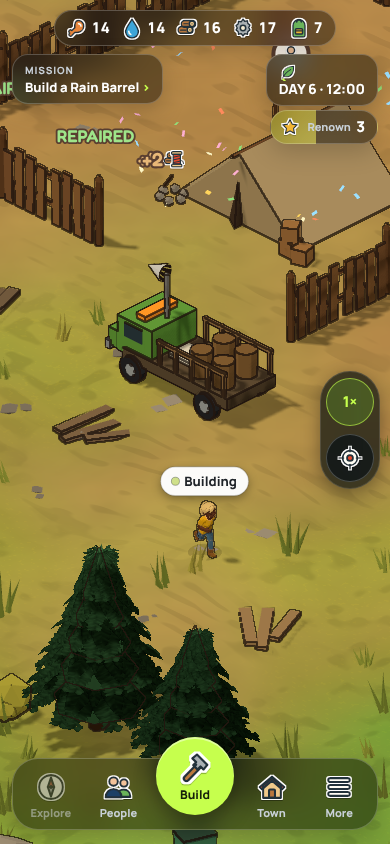
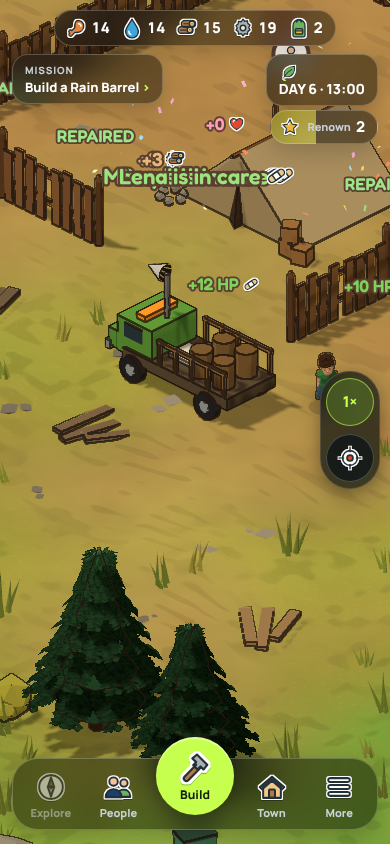
3D.303: the rescue truck, part 2: two Greenwater medics get out and wheel the fallen into care on stretcher carts; the truck waits for them, its horn holding the zombies, then leads them out. Also: a save made mid-carry no longer fails (owner, 19 Nov, W129; Features chat)
Claude-Session: https://claude.ai/code/session_017WFo2e1A76LqtvnWUw2GGA

diff --git a/js/game.js b/js/game.js
@@ -1045,7 +1045,7 @@ const AUTO_HELP_DAYS = 3;
 /* 3D.288 (owner, 19 Nov, W129 B; look C, W228): the rescue no longer kills zombies out of sight. Greenwater's farm truck drives in off the
    highway with its horn and alarm going; the zombies in town turn toward it; when it drives back out it crawls down the highway at a
    zombie's pace and the zombies follow it off the map (the car-alarm lure, on wheels). S.truck = { path, i, leg: 'in' | 'stop' | 'out', t }. */
-const TRUCK = { inSpd: .05, outSpd: .022, stop: 240, honk: 150, lead: 3.5, wait: 9000 };
+const TRUCK = { inSpd: .05, outSpd: .022, stop: 240, stopMax: 6000, honk: 150, lead: 3.5, wait: 9000 };
 function truckRoute() {   /* from the highway's east end to the Camp (or the middle of town), on the road where it can */
   const end = { x: COLS - 1, y: Wd.HWY_Y }, c = campB(), to = c ? Wd.approachTile(c) : tileOf(townCentre()), p = Wd.findPath(world, end, to);
   if (!p || !p.length) return null; const all = [end, ...p]; return all.slice(0, Math.max(2, all.length - 2)).map((q) => ({ x: q.x + .5, y: q.y + .5 })); }   /* it parks two tiles short of the Camp's door, not on top of it */
@@ -1053,6 +1053,30 @@ function truckStart() {
   for (const q of S.sv) if (q.mode === 'down') { q.stable = true; q.why = 'Help is coming: Greenwater is nearly here'; }   /* the bleed stops: their medic talks the town through it on the radio */
   const path = truckRoute(); if (!path) { (S.help ||= {}).arrived = true; return; }   /* no way in for a truck: the team comes on foot as before */
   S.truck = { path, i: 0, leg: 'in', t: 0 }; SFX('caralarm'); banner('🚚 GREENWATER IS HERE'); }
+function admitRescued(q) { const b = careDest(); q.careAt = b; q.w = { ...sitePoint(b) }; q.mode = 'hospital'; q.hp = Math.max(1, q.hp); q.bleed = null; q.rescuer = null; q.stateTicks = careTicks(b); q.careTotal = q.stateTicks; q.why = 'Brought in by the Greenwater medics'; }
+/* 3D.303 (W129): "their medics carry the fallen into care". Two Greenwater medics get out of the parked truck, each walks to someone who is
+   down, loads them on a stretcher cart and wheels them to the medical building (or the Camp), then fetches the next; when nobody is left
+   down they walk back and the truck leaves. A medic remembers who they carry by id (the save file keeps no links between people).
+   If it takes longer than TRUCK.stopMax, whoever is still down is taken in at once and the medics climb back in. */
+const MEDIC = { n: 2, spd: .045, load: 50 };
+function truckMedics() { const T = S.truck; if (!T || T.medics) return; const at = truckAt();
+  T.medics = Array.from({ length: MEDIC.n }, (_, i) => ({ id: 90001 + i, medic: true, human: true, name: ['Rosa', 'Abe'][i] || 'Medic', w: { x: at.x + (i ? .6 : -.6), y: at.y + .7 }, mode: 'go', carryId: null, carrying: null, t: 0 })); }
+const downFree = (me) => S.sv.filter((q) => q.mode === 'down' && !(q.rescuer && q.rescuer !== me && (q.rescuer.medic || q.rescuer.mode === 'rescueTo' || q.rescuer.mode === 'rescueCarry')));   /* not one someone else is already fetching */
+function medicsTick(T) {
+  const home = truckAt(); let busy = 0;
+  for (const m of T.medics) {
+    if (m.carryId != null && !m.carrying) { m.carrying = S.sv.find((q) => q.id === m.carryId) || null; if (m.carrying) m.carrying.rescuer = m; else { m.carryId = null; m.mode = 'go'; } }   /* after a load */
+    if (m.mode === 'in') continue;
+    if (m.mode === 'go') { const q = m.target && m.target.mode === 'down' && m.target.rescuer === m ? m.target : downFree(m).sort((a, b) => dist(a.w, m.w) - dist(b.w, m.w))[0];
+      if (!q) { m.target = null; m.mode = 'back'; } else { m.target = q; q.rescuer = m; busy++; m.why = `Fetching ${q.name}`;
+        if (followPath(m, q.w, MEDIC.spd) !== 'moving' || dist(m.w, q.w) < .7) { if ((m.t += 1) >= MEDIC.load) { m.t = 0; m.mode = 'rescueCarry'; m.carrying = q; m.carryId = q.id; m.target = null; q.why = 'On a Greenwater stretcher'; } } } }
+    if (m.mode === 'rescueCarry') { busy++; const q = m.carrying; if (!q || q.mode !== 'down') { m.carrying = null; m.carryId = null; m.mode = 'go'; continue; }
+      q.rescuer = m;   /* the downed person's own tick lets go of a rescuer it does not know; the medic keeps hold */
+      const dest = sitePoint(careDest()), r = followPath(m, dest, MEDIC.spd * .85); q.w = { ...m.w };
+      if (r !== 'moving' || dist(m.w, dest) < .8) { admitRescued(q); m.carrying = null; m.carryId = null; m.mode = 'go'; floats.push({ w: { ...m.w }, t: `🩹 ${q.name} is in care`, col: '#9be37b', a: 90 }); } }
+    if (m.mode === 'back') { if (downFree(m).length) { m.mode = 'go'; continue; } if (followPath(m, home, MEDIC.spd) !== 'moving' || dist(m.w, home) < .9) m.mode = 'in'; else busy++; }
+  }
+  return busy; }
 const truckAt = () => { const T = S.truck; if (!T) return null; const P = T.path, i = Math.min(P.length - 2, Math.floor(T.i)), f = Math.min(1, T.i - i), a = P[i], b = P[i + 1] || a; return { x: a.x + (b.x - a.x) * f, y: a.y + (b.y - a.y) * f, yaw: Math.atan2(b.y - a.y, b.x - a.x) }; };
 function truckFollowers() { return S.z.filter((z) => z.hp > 0 && !z.zoo && !z.human && (Wd.inTown(Math.floor(z.w.x), Math.floor(z.w.y)) || nearTown(z.w))); }
 function truckLead() {   /* every zombie in town turns to follow the truck out (they walk down the highway and off the map) */
@@ -1062,9 +1086,12 @@ function truckLead() {   /* every zombie in town turns to follow the truck out (
 function truckTick() {
   const T = S.truck; if (!T) return; const P = T.path, at = truckAt(); T.t++;
   if (T.t % TRUCK.honk === 0) { SFX('caralarm'); if (!floats.some((f) => f.honk)) floats.push({ w: { ...at }, t: '📯 HONK HONK', col: '#ffd84a', a: 90, honk: true }); }   /* one at a time */
-  if (T.leg === 'in') { if (tick % 30 === 0) for (const z of truckFollowers()) if (!z.lure && z.mode !== 'zleave') { z.lure = { x: at.x, y: at.y }; z.lureUntil = tick + 120; }   /* the noise turns heads as it comes */
-    T.i += TRUCK.inSpd; if (T.i >= P.length - 1) { T.i = P.length - 1; T.leg = 'stop'; T.t = 0; (S.help ||= {}).arrived = true; } return; }
-  if (T.leg === 'stop') { if (T.t >= TRUCK.stop) { T.leg = 'out'; T.path = P.slice().reverse(); T.i = 0; truckLead(); } return; }
+  if (T.leg === 'in' || T.leg === 'stop') { if (tick % 30 === 0) for (const z of truckFollowers()) if (!z.lure && z.mode !== 'zleave') { z.lure = { x: at.x, y: at.y }; z.lureUntil = tick + 120; }   /* the noise turns heads as it comes */
+    if (T.leg === 'in') { T.i += TRUCK.inSpd; if (T.i >= P.length - 1) { T.i = P.length - 1; T.leg = 'stop'; T.t = 0; truckMedics(); (S.help ||= {}).arrived = true; } return; } }
+  if (T.leg === 'stop') { const busy = T.medics ? medicsTick(T) : 0;
+    if (T.t >= TRUCK.stopMax) { for (const q of S.sv) if (q.mode === 'down') admitRescued(q); for (const m of T.medics || []) { if (m.carrying) m.carrying.rescuer = null; m.mode = 'in'; } }   /* taking too long: the rest are taken in at once */
+    else if (T.t < TRUCK.stop || busy || (T.medics && T.medics.some((m) => m.mode !== 'in'))) return;
+    T.medics = null; T.leg = 'out'; T.path = P.slice().reverse(); T.i = 0; T.t = 0; truckLead(); return; }
   { const fs = S.z.filter((z) => z.truck && z.hp > 0), near = fs.length ? Math.min(...fs.map((z) => dist(z.w, at))) : 0; if (near > TRUCK.lead && T.t < TRUCK.wait) return; }   /* it leads: it waits for the nearest follower to catch up (at most TRUCK.wait ticks in all) */
   T.i += TRUCK.outSpd; if (T.i >= P.length - 1) { S.truck = null; const left = S.z.filter((z) => z.truck && z.hp > 0).length; note('important', `🚚 The truck is gone down the highway${left ? `; ${left} zombie${left === 1 ? ' is' : 's are'} still shuffling after it` : ' and the town is quiet'}.`); }
 }
@@ -1075,11 +1102,12 @@ function helpTick() {
       note('critical', '📻 Nobody is left standing: help is on the way', { key: 'helpcoming', live: () => !!(S.help && S.help.coming), log: 'The Haven went quiet on the radio. The neighbours are coming without being asked.' }); banner('📻 HELP IS COMING'); } }
   const h = S.help; if (!h) return;
   if (h.coming && tick >= h.coming && !S.truck) { h.coming = 0; truckStart(); }
-  if (h.arrived) { h.arrived = false; const led = truckLead();
-    let saved = 0; for (const q of S.sv) if (q.mode === 'down') { const b = careDest(); q.careAt = b; q.w = { ...sitePoint(b) }; q.mode = 'hospital'; q.hp = 1; q.bleed = null; q.rescuer = null; q.stateTicks = careTicks(b); q.careTotal = q.stateTicks; q.why = 'Brought in by the rescue team'; saved++; }
+  if (h.arrived) { h.arrived = false; const led = S.truck ? truckFollowers().length : truckLead();   /* 3D.303: they follow when it drives off; until then the horn holds them round the truck */
+    let saved = 0; if (S.truck) { saved = S.sv.filter((q) => q.mode === 'down').length; truckMedics(); }   /* 3D.303: their medics get out and carry the fallen in */
+    else for (const q of S.sv) if (q.mode === 'down') { admitRescued(q); saved++; }   /* no truck (no road in): as before */
     h.owe = { day: S.day + 2, ...HELP_COST }; SFX('rescued');
     const self = h.self; h.self = false;
-    showEventPopup({ title: '🚚 GREENWATER\'S TRUCK ARRIVED', text: `${self ? 'Nobody answered the radio, so they came anyway. ' : ''}${led ? `Horn blaring, they are leading ${led} zombie${led === 1 ? '' : 's'} out of town down the highway` : 'The streets were clear'}, and they carried ${saved} of your people into care. "Two days from now, we'll come by for that favour."` });
+    showEventPopup({ title: '🚚 GREENWATER\'S TRUCK ARRIVED', text: `${self ? 'Nobody answered the radio, so they came anyway. ' : ''}${led ? `Horn blaring, they are leading ${led} zombie${led === 1 ? '' : 's'} out of town down the highway` : 'The streets were clear'}, and their medics ${S.truck ? 'are carrying' : 'carried'} ${saved} of your people into care. "Two days from now, we'll come by for that favour."` });
   }
   if (h.owe && S.day >= h.owe.day && !modalOpen) { const o = h.owe; h.owe = null;
     showEventPopup({ title: '📻 THEY CAME FOR THE FAVOUR', text: `The group that saved your people asks for ${o.food} food and ${o.water} water.`, buttons: [
@@ -4618,7 +4646,7 @@ function serialize() {
   S.mapOff = OFF;   /* 3D.101: this save uses the 40x42 map */
   const sv = S.sv.map((s) => { const o = {}; for (const k in s) if (!SKIP.has(k)) o[k] = s[k]; return o; });
   if (S.sh) shMemSave(S.sh);   /* 3D.302 a game saved with a squad inside keeps what they have done there */
-  const { requests, sv: _sv, z: _z, sh: _sh, ...rest } = S; if (_sh && !_sh.practice) { rest.shHome = _sh.units.filter((s) => !s.ally).map((s) => { const o = {}; for (const k in s) if (!SKIP.has(k) && k !== 'target' && k !== 'shHome') o[k] = s[k]; return o; }); rest.shLeft = { dest: _sh.dest, raid: _sh.raid || null }; }   /* 3D.125: a practice squad is never saved into the town */   /* 3D.108 a squad inside a stronghold is saved as having fallen back */
+  const { requests, sv: _sv, z: _z, sh: _sh, ...rest } = S; if (rest.truck && rest.truck.medics) rest.truck = { ...rest.truck, medics: rest.truck.medics.map(({ carrying, target, path, pathGoal, pathVer, arrG, ...m }) => m) };   /* 3D.303: a medic is saved without its links to people (it finds its patient again by carryId) */ if (_sh && !_sh.practice) { rest.shHome = _sh.units.filter((s) => !s.ally).map((s) => { const o = {}; for (const k in s) if (!SKIP.has(k) && k !== 'target' && k !== 'shHome') o[k] = s[k]; return o; }); rest.shLeft = { dest: _sh.dest, raid: _sh.raid || null }; }   /* 3D.125: a practice squad is never saved into the town */   /* 3D.108 a squad inside a stronghold is saved as having fallen back */
   return JSON.stringify({ sid: SID, version: VERSION, S: rest, sv, roads: [...world.roads], walls: [...world.walls.values()].map((w) => [w.x, w.y, w.type, Math.round(w.hp), w.broken ? 1 : 0]), traps: [...trapMap().values()].map((t) => [t.x, t.y, t.type, t.ch]), buildings: world.buildings.map((b) => ({ type: b.type, x: b.x, y: b.y, rot: (b.rot | 0) & 3, w: b.w, h: b.h, q: b.q, a: b.a, unpaid: !!b.unpaid, fire: b.fire || 0, burnt: !!b.burnt, rushT: b.rushT || 0, rushes: b.rushes || 0, staffId: b.staff ? b.staff.id : null })), cam: { x: cam.x, y: cam.y, z: cam.z }, time: Date.now() });
 }
 function writeKey(key, data) { try { localStorage.setItem(key, data); return true; } catch (e) { return e || new Error('blocked'); } }

diff --git a/src/game/03-stats-gear.js b/src/game/03-stats-gear.js
@@ -378,7 +378,7 @@ const AUTO_HELP_DAYS = 3;
 /* 3D.288 (owner, 19 Nov, W129 B; look C, W228): the rescue no longer kills zombies out of sight. Greenwater's farm truck drives in off the
    highway with its horn and alarm going; the zombies in town turn toward it; when it drives back out it crawls down the highway at a
    zombie's pace and the zombies follow it off the map (the car-alarm lure, on wheels). S.truck = { path, i, leg: 'in' | 'stop' | 'out', t }. */
-const TRUCK = { inSpd: .05, outSpd: .022, stop: 240, honk: 150, lead: 3.5, wait: 9000 };
+const TRUCK = { inSpd: .05, outSpd: .022, stop: 240, stopMax: 6000, honk: 150, lead: 3.5, wait: 9000 };
 function truckRoute() {   /* from the highway's east end to the Camp (or the middle of town), on the road where it can */
   const end = { x: COLS - 1, y: Wd.HWY_Y }, c = campB(), to = c ? Wd.approachTile(c) : tileOf(townCentre()), p = Wd.findPath(world, end, to);
   if (!p || !p.length) return null; const all = [end, ...p]; return all.slice(0, Math.max(2, all.length - 2)).map((q) => ({ x: q.x + .5, y: q.y + .5 })); }   /* it parks two tiles short of the Camp's door, not on top of it */
@@ -386,6 +386,30 @@ function truckStart() {
   for (const q of S.sv) if (q.mode === 'down') { q.stable = true; q.why = 'Help is coming: Greenwater is nearly here'; }   /* the bleed stops: their medic talks the town through it on the radio */
   const path = truckRoute(); if (!path) { (S.help ||= {}).arrived = true; return; }   /* no way in for a truck: the team comes on foot as before */
   S.truck = { path, i: 0, leg: 'in', t: 0 }; SFX('caralarm'); banner('🚚 GREENWATER IS HERE'); }
+function admitRescued(q) { const b = careDest(); q.careAt = b; q.w = { ...sitePoint(b) }; q.mode = 'hospital'; q.hp = Math.max(1, q.hp); q.bleed = null; q.rescuer = null; q.stateTicks = careTicks(b); q.careTotal = q.stateTicks; q.why = 'Brought in by the Greenwater medics'; }
+/* 3D.303 (W129): "their medics carry the fallen into care". Two Greenwater medics get out of the parked truck, each walks to someone who is
+   down, loads them on a stretcher cart and wheels them to the medical building (or the Camp), then fetches the next; when nobody is left
+   down they walk back and the truck leaves. A medic remembers who they carry by id (the save file keeps no links between people).
+   If it takes longer than TRUCK.stopMax, whoever is still down is taken in at once and the medics climb back in. */
+const MEDIC = { n: 2, spd: .045, load: 50 };
+function truckMedics() { const T = S.truck; if (!T || T.medics) return; const at = truckAt();
+  T.medics = Array.from({ length: MEDIC.n }, (_, i) => ({ id: 90001 + i, medic: true, human: true, name: ['Rosa', 'Abe'][i] || 'Medic', w: { x: at.x + (i ? .6 : -.6), y: at.y + .7 }, mode: 'go', carryId: null, carrying: null, t: 0 })); }
+const downFree = (me) => S.sv.filter((q) => q.mode === 'down' && !(q.rescuer && q.rescuer !== me && (q.rescuer.medic || q.rescuer.mode === 'rescueTo' || q.rescuer.mode === 'rescueCarry')));   /* not one someone else is already fetching */
+function medicsTick(T) {
+  const home = truckAt(); let busy = 0;
+  for (const m of T.medics) {
+    if (m.carryId != null && !m.carrying) { m.carrying = S.sv.find((q) => q.id === m.carryId) || null; if (m.carrying) m.carrying.rescuer = m; else { m.carryId = null; m.mode = 'go'; } }   /* after a load */
+    if (m.mode === 'in') continue;
+    if (m.mode === 'go') { const q = m.target && m.target.mode === 'down' && m.target.rescuer === m ? m.target : downFree(m).sort((a, b) => dist(a.w, m.w) - dist(b.w, m.w))[0];
+      if (!q) { m.target = null; m.mode = 'back'; } else { m.target = q; q.rescuer = m; busy++; m.why = `Fetching ${q.name}`;
+        if (followPath(m, q.w, MEDIC.spd) !== 'moving' || dist(m.w, q.w) < .7) { if ((m.t += 1) >= MEDIC.load) { m.t = 0; m.mode = 'rescueCarry'; m.carrying = q; m.carryId = q.id; m.target = null; q.why = 'On a Greenwater stretcher'; } } } }
+    if (m.mode === 'rescueCarry') { busy++; const q = m.carrying; if (!q || q.mode !== 'down') { m.carrying = null; m.carryId = null; m.mode = 'go'; continue; }
+      q.rescuer = m;   /* the downed person's own tick lets go of a rescuer it does not know; the medic keeps hold */
+      const dest = sitePoint(careDest()), r = followPath(m, dest, MEDIC.spd * .85); q.w = { ...m.w };
+      if (r !== 'moving' || dist(m.w, dest) < .8) { admitRescued(q); m.carrying = null; m.carryId = null; m.mode = 'go'; floats.push({ w: { ...m.w }, t: `🩹 ${q.name} is in care`, col: '#9be37b', a: 90 }); } }
+    if (m.mode === 'back') { if (downFree(m).length) { m.mode = 'go'; continue; } if (followPath(m, home, MEDIC.spd) !== 'moving' || dist(m.w, home) < .9) m.mode = 'in'; else busy++; }
+  }
+  return busy; }
 const truckAt = () => { const T = S.truck; if (!T) return null; const P = T.path, i = Math.min(P.length - 2, Math.floor(T.i)), f = Math.min(1, T.i - i), a = P[i], b = P[i + 1] || a; return { x: a.x + (b.x - a.x) * f, y: a.y + (b.y - a.y) * f, yaw: Math.atan2(b.y - a.y, b.x - a.x) }; };
 function truckFollowers() { return S.z.filter((z) => z.hp > 0 && !z.zoo && !z.human && (Wd.inTown(Math.floor(z.w.x), Math.floor(z.w.y)) || nearTown(z.w))); }
 function truckLead() {   /* every zombie in town turns to follow the truck out (they walk down the highway and off the map) */
@@ -395,9 +419,12 @@ function truckLead() {   /* every zombie in town turns to follow the truck out (
 function truckTick() {
   const T = S.truck; if (!T) return; const P = T.path, at = truckAt(); T.t++;
   if (T.t % TRUCK.honk === 0) { SFX('caralarm'); if (!floats.some((f) => f.honk)) floats.push({ w: { ...at }, t: '📯 HONK HONK', col: '#ffd84a', a: 90, honk: true }); }   /* one at a time */
-  if (T.leg === 'in') { if (tick % 30 === 0) for (const z of truckFollowers()) if (!z.lure && z.mode !== 'zleave') { z.lure = { x: at.x, y: at.y }; z.lureUntil = tick + 120; }   /* the noise turns heads as it comes */
-    T.i += TRUCK.inSpd; if (T.i >= P.length - 1) { T.i = P.length - 1; T.leg = 'stop'; T.t = 0; (S.help ||= {}).arrived = true; } return; }
-  if (T.leg === 'stop') { if (T.t >= TRUCK.stop) { T.leg = 'out'; T.path = P.slice().reverse(); T.i = 0; truckLead(); } return; }
+  if (T.leg === 'in' || T.leg === 'stop') { if (tick % 30 === 0) for (const z of truckFollowers()) if (!z.lure && z.mode !== 'zleave') { z.lure = { x: at.x, y: at.y }; z.lureUntil = tick + 120; }   /* the noise turns heads as it comes */
+    if (T.leg === 'in') { T.i += TRUCK.inSpd; if (T.i >= P.length - 1) { T.i = P.length - 1; T.leg = 'stop'; T.t = 0; truckMedics(); (S.help ||= {}).arrived = true; } return; } }
+  if (T.leg === 'stop') { const busy = T.medics ? medicsTick(T) : 0;
+    if (T.t >= TRUCK.stopMax) { for (const q of S.sv) if (q.mode === 'down') admitRescued(q); for (const m of T.medics || []) { if (m.carrying) m.carrying.rescuer = null; m.mode = 'in'; } }   /* taking too long: the rest are taken in at once */
+    else if (T.t < TRUCK.stop || busy || (T.medics && T.medics.some((m) => m.mode !== 'in'))) return;
+    T.medics = null; T.leg = 'out'; T.path = P.slice().reverse(); T.i = 0; T.t = 0; truckLead(); return; }
   { const fs = S.z.filter((z) => z.truck && z.hp > 0), near = fs.length ? Math.min(...fs.map((z) => dist(z.w, at))) : 0; if (near > TRUCK.lead && T.t < TRUCK.wait) return; }   /* it leads: it waits for the nearest follower to catch up (at most TRUCK.wait ticks in all) */
   T.i += TRUCK.outSpd; if (T.i >= P.length - 1) { S.truck = null; const left = S.z.filter((z) => z.truck && z.hp > 0).length; note('important', `🚚 The truck is gone down the highway${left ? `; ${left} zombie${left === 1 ? ' is' : 's are'} still shuffling after it` : ' and the town is quiet'}.`); }
 }
@@ -408,11 +435,12 @@ function helpTick() {
       note('critical', '📻 Nobody is left standing: help is on the way', { key: 'helpcoming', live: () => !!(S.help && S.help.coming), log: 'The Haven went quiet on the radio. The neighbours are coming without being asked.' }); banner('📻 HELP IS COMING'); } }
   const h = S.help; if (!h) return;
   if (h.coming && tick >= h.coming && !S.truck) { h.coming = 0; truckStart(); }
-  if (h.arrived) { h.arrived = false; const led = truckLead();
-    let saved = 0; for (const q of S.sv) if (q.mode === 'down') { const b = careDest(); q.careAt = b; q.w = { ...sitePoint(b) }; q.mode = 'hospital'; q.hp = 1; q.bleed = null; q.rescuer = null; q.stateTicks = careTicks(b); q.careTotal = q.stateTicks; q.why = 'Brought in by the rescue team'; saved++; }
+  if (h.arrived) { h.arrived = false; const led = S.truck ? truckFollowers().length : truckLead();   /* 3D.303: they follow when it drives off; until then the horn holds them round the truck */
+    let saved = 0; if (S.truck) { saved = S.sv.filter((q) => q.mode === 'down').length; truckMedics(); }   /* 3D.303: their medics get out and carry the fallen in */
+    else for (const q of S.sv) if (q.mode === 'down') { admitRescued(q); saved++; }   /* no truck (no road in): as before */
     h.owe = { day: S.day + 2, ...HELP_COST }; SFX('rescued');
     const self = h.self; h.self = false;
-    showEventPopup({ title: '🚚 GREENWATER\'S TRUCK ARRIVED', text: `${self ? 'Nobody answered the radio, so they came anyway. ' : ''}${led ? `Horn blaring, they are leading ${led} zombie${led === 1 ? '' : 's'} out of town down the highway` : 'The streets were clear'}, and they carried ${saved} of your people into care. "Two days from now, we'll come by for that favour."` });
+    showEventPopup({ title: '🚚 GREENWATER\'S TRUCK ARRIVED', text: `${self ? 'Nobody answered the radio, so they came anyway. ' : ''}${led ? `Horn blaring, they are leading ${led} zombie${led === 1 ? '' : 's'} out of town down the highway` : 'The streets were clear'}, and their medics ${S.truck ? 'are carrying' : 'carried'} ${saved} of your people into care. "Two days from now, we'll come by for that favour."` });
   }
   if (h.owe && S.day >= h.owe.day && !modalOpen) { const o = h.owe; h.owe = null;
     showEventPopup({ title: '📻 THEY CAME FOR THE FAVOUR', text: `The group that saved your people asks for ${o.food} food and ${o.water} water.`, buttons: [

diff --git a/tools/qa/truck_check.js b/tools/qa/truck_check.js
@@ -2,7 +2,8 @@
 // Greenwater's truck drives in off the highway with its horn going; the zombies in town turn toward it; it stops at the Camp
 // (the fallen go into care); then it drives back out down the highway and the zombies follow it off the map. Nobody kills them out of sight.
 // The check knocks the whole town down with zombies at the Camp, lets the neighbours come by themselves, and watches:
-//   1 the truck appears at the highway's east end and reaches the Camp; the fallen are stable while it drives in, in care when it stops;
+//   1 the truck appears at the highway's east end and reaches the Camp; the fallen are stable while it drives in;
+//   1b (3D.303) two medics get out and carry each of the fallen into care on a stretcher cart; the truck leaves only when they are all in and the medics are back;
 //   2 when it leaves, every zombie that was in town follows it east, the truck never more than a few tiles ahead of the nearest; none is killed (they walk off the map), none is left behind;
 //   3 a picture of the truck in town for the owner (runs/features/truck_in_game.png).
 // Serve the repo first (python3 -m http.server 8765) or set ZH_NOSERVER=1. Exit 0 ok, 1 a check failed.
@@ -16,8 +17,12 @@ const Q = require('./lib'), path = require('path'); let out2;
     step(400); out.coming = !!S.truck; out.stableWhileIn = S.sv.every((q) => q.mode !== 'down' || q.stable);
     for (let k = 0; k < 400 && S.truck && S.truck.leg === 'in'; k++) step(10);
     out.stopped = !!S.truck && S.truck.leg === 'stop'; const at = ZH.truckAt(); out.stopAt = at && { x: +at.x.toFixed(1), y: +at.y.toFixed(1) }; out.camp = { x: camp.x, y: camp.y };
-    step(60); out.care = S.sv.map((q) => q.mode); out.zAlive = zs.filter((z) => z.hp > 0).length; out.gone = zs.filter((z) => z.hp <= 0).map((z) => `${z.type} ${z.escaped ? 'escaped' : 'killed'} ${z.mode} ${z.w.x.toFixed(1)},${z.w.y.toFixed(1)}`); out.window = !!document.querySelector('#eventModal');
-    for (let k = 0; k < 100 && S.truck && S.truck.leg !== 'out'; k++) step(10);
+    const carried = new Set(), medicsSeen = new Set(); let stopT = 0, leftEarly = false;
+    for (let k = 0; k < 800 && S.truck && S.truck.leg === 'stop'; k++) { step(10); stopT += 10; const T = S.truck; if (!T) break;
+      for (const m of T.medics || []) { medicsSeen.add(m.id); if (m.mode === 'rescueCarry' && m.carrying) { carried.add(m.carrying.id); if (m.carrying.rescuer !== m) out.badLink = true; } }
+      if (T.leg !== 'stop' && S.sv.some((q) => q.mode === 'down')) leftEarly = true; }
+    out.medics = medicsSeen.size; out.carried = carried.size; out.stopT = stopT; out.leftEarly = leftEarly; out.why = [...new Set(S.sv.map((q) => q.why))];
+    out.care = S.sv.map((q) => q.mode); out.zAlive = zs.filter((z) => z.hp > 0).length; out.gone = zs.filter((z) => z.hp <= 0).map((z) => `${z.type} ${z.escaped ? 'escaped' : 'killed'} ${z.mode} ${z.w.x.toFixed(1)},${z.w.y.toFixed(1)}`); out.window = !!document.querySelector('#eventModal');
     out.following = zs.filter((z) => z.hp > 0 && z.mode === 'zleave' && z.truck).length; const toExit = () => { const f = zs.filter((z) => z.hp > 0); return f.reduce((a, z) => a + Math.hypot(ZH.Wd.COLS - z.w.x, ZH.Wd.HWY_Y + 1 - z.w.y), 0) / Math.max(1, f.length); }; out.xs0 = toExit();
     out.gap = []; for (let k = 0; k < 6; k++) { step(250); const a = ZH.truckAt(), f = zs.filter((z) => z.hp > 0); if (a && f.length) out.gap.push(+Math.min(...f.map((z) => Math.hypot(z.w.x - a.x, z.w.y - a.y))).toFixed(1)); out.others = S.z.filter((z) => z.truck && z.hp > 0 && !z.tag).length; }
     out.xs1 = toExit();
@@ -28,13 +33,23 @@ const Q = require('./lib'), path = require('path'); let out2;
   await p.evaluate(() => { const S = ZH.S; S.truck = null; S.help = {}; for (const q of S.sv) { q.hp = q.max; q.mode = 'free'; } ZH.spawn(); ZH.spawn(); ZH.spawn(); S.help = { coming: ZH.tick + 1 }; for (let i = 0; i < 6; i++) ZH.step(10); const T = S.truck; if (T) T.i = Math.max(0, T.path.length - 9); for (let i = 0; i < 40; i++) ZH.step(10); const a = ZH.truckAt(); if (a) { ZH.centerOn(a.x, a.y); ZH.cam.z = 1.6; } });
   await p.evaluate(() => { const S = ZH.S; S.guest = null; for (const id of ['eventModal']) { const e = document.getElementById(id); if (e) e.innerHTML = ''; } document.querySelectorAll('.liveCard, #radioCard, .radioCard').forEach((e) => e.remove()); const a = ZH.truckAt(); if (a) { ZH.cam.z = 2.4; ZH.centerOn(a.x, a.y); } });
   await p.waitForTimeout(2500); out2 = await p.evaluate(() => ({ truck: !!ZH.S.truck, at: ZH.truckAt(), shown: !!(window.ZH3D && ZH3D) })); console.log('picture:', JSON.stringify(out2)); await Q.shot(p, path.join(__dirname, '../../runs/features/truck_in_game.png'));
+  /* a second picture: a medic wheeling someone in (3D.303) */
+  const med = await p.evaluate(() => { const S = ZH.S, camp = ZH.world.buildings[0]; S.truck = null; S.z.length = 0; S.help = {};
+    S.sv.forEach((q, i) => { q.hp = 0; q.mode = 'down'; q.rescuer = null; q.w = { x: camp.x + 5 + (i % 3) * 2, y: camp.y + 5 + Math.floor(i / 3) }; });   /* everyone down, so only the medics carry */
+    S.help = { coming: ZH.tick + 1 }; for (let k = 0; k < 400; k++) { S.hour = 12; ZH.step(10); document.querySelectorAll('#eventModal button').forEach((x) => x.click()); const T = S.truck, m = T && T.medics && T.medics.find((x) => x.mode === 'rescueCarry'); if (m && m.t === 0 && Math.hypot(m.w.x - m.carrying.w.x, m.w.y - m.carrying.w.y) < .1 && k % 3 === 0) { const e = document.getElementById('eventModal'); if (e) e.innerHTML = ''; ZH.cam.z = 2.6; ZH.centerOn(m.w.x, m.w.y); return { ok: true, who: m.name, carrying: m.carrying.name }; } } return { ok: false }; });
+  await p.waitForTimeout(2500); console.log('medic picture:', JSON.stringify(med)); await Q.shot(p, path.join(__dirname, '../../runs/features/truck_medics.png'));
   console.log(JSON.stringify(r)); const bad = [];
   if (!r.coming || !r.first) bad.push('no truck came');
   else { if (r.first.x < 30) bad.push('the truck did not start at the highway\'s east end: ' + JSON.stringify(r.first));
     if (r.unstable) bad.push('someone was bleeding out while the truck drove in');
     if (!r.stopped) bad.push('the truck never stopped in town (legs: ' + r.legs.join(',') + ')');
     if (r.inT > 1500) bad.push('the truck took too long to arrive: ' + r.inT + ' ticks');
-    if (r.care.includes('down')) bad.push('the fallen were not taken into care when the truck stopped: ' + r.care.join(','));
+    if (r.care.includes('down')) bad.push('the fallen were not all in care when the truck left: ' + r.care.join(','));
+    if (r.medics !== 2) bad.push('expected two medics to get out, saw ' + r.medics);
+    if (r.carried !== r.care.length) bad.push(`the medics carried ${r.carried} of the ${r.care.length} fallen (the rest were put in care without being carried)`);
+    if (r.badLink) bad.push('someone on a stretcher was not linked to the medic carrying them (they would not ride the cart)');
+    if (r.leftEarly) bad.push('the truck left while someone was still down');
+    if (r.stopT >= 6000) bad.push('the medics ran out of time (' + r.stopT + ' ticks)');
     if (r.zAlive < r.n) bad.push('zombies died while the truck was in town (' + (r.n - r.zAlive) + ')');
     if (r.following < r.zAlive) bad.push(`only ${r.following} of ${r.zAlive} zombies followed the truck`);
     if (!(r.xs1 < r.xs0 - 3)) bad.push(`the zombies did not move toward the highway exit after the truck (${r.xs0.toFixed(1)} → ${r.xs1.toFixed(1)} tiles away)`);
@@ -44,5 +59,5 @@ const Q = require('./lib'), path = require('path'); let out2;
     if (r.killed) bad.push(r.killed + ' zombies were killed (they should walk off the map)');
     if (r.escaped !== r.n) bad.push(`only ${r.escaped} of ${r.n} zombies walked off the map`);
     if (r.fallen) bad.push('someone died'); }
-  console.log(bad.length ? 'FAIL: ' + bad.join('; ') : 'ok: the truck drives in from the highway, the fallen are safe and taken into care, and every zombie follows it off the map; none killed'); if (p.errs.length) console.log('page errors:', p.errs.slice(0, 3)); await b.close(); process.exit(bad.length ? 1 : 0);
+  console.log(bad.length ? 'FAIL: ' + bad.join('; ') : 'ok: the truck drives in from the highway, the fallen are safe, two medics carry each of them into care, and every zombie follows it off the map; none killed'); if (p.errs.length) console.log('page errors:', p.errs.slice(0, 3)); await b.close(); process.exit(bad.length ? 1 : 0);
 })();

diff --git a/tools/qa/never_lost_check.js b/tools/qa/never_lost_check.js
@@ -13,13 +13,14 @@ const Q = require('./lib');
     /* 2: everyone down */
     allDown(0); S.z.length = 0; for (let i = 0; i < 3; i++) ZH.spawn(); const camp = ZH.world.buildings[0], tagged = S.z.slice(); for (const z of tagged) { z.w = { x: camp.x + 1.5, y: camp.y + 2.5 }; z.mode = 'idle'; }
     run(60); out.called = !!(S.help && S.help.coming); out.self = !!(S.help && S.help.self); for (let k = 0; k < 60 && !(S.help && S.help.owe); k++) run(100);   /* 3D.288: the truck drives in first */
-    out.alive = S.sv.length; out.n0 = n0; out.modes = [...new Set(S.sv.map((q) => q.mode))]; for (let k = 0; k < 20 && S.truck && S.truck.leg !== 'out'; k++) run(100); out.zLeft = tagged.filter((z) => z.hp > 0 && !(z.mode === 'zleave' && z.truck)).length; out.zKilled = tagged.filter((z) => z.hp <= 0 && !z.escaped).length;   /* they follow the truck out (truck_check.js watches them all the way off the map) */ out.owe = !!(S.help && S.help.owe); out.auto = S.help && S.help.auto;
+    for (let k = 0; k < 70 && S.truck && S.truck.leg !== 'out'; k++) run(100);   /* 3D.303: the medics carry everyone in before the truck leaves */
+    out.alive = S.sv.length; out.n0 = n0; out.modes = [...new Set(S.sv.map((q) => q.mode))]; out.zLeft = tagged.filter((z) => z.hp > 0 && !(z.mode === 'zleave' && z.truck)).length; out.zKilled = tagged.filter((z) => z.hp <= 0 && !z.escaped).length;   /* they follow the truck out (truck_check.js watches them all the way off the map) */ out.owe = !!(S.help && S.help.owe); out.auto = S.help && S.help.auto;
     /* 3: the same day again: no second rescue */
     S.truck = null; S.z.length = 0; allDown(0); for (const q of S.sv) q.bleed = null; run(100); out.second = !!(S.help && S.help.coming);
     /* 4: four days later: they come again, even with the favour owed */
     S.day = 10; if (S.help) S.help.owe = { day: 99, food: 15, water: 10 }; allDown(0); run(100); out.later = !!(S.help && S.help.coming); run(500);
     /* 5 (3D.251): the Camp is wrecked (a bot town bled out to the last person this way): they still come, and people get back on their feet */
-    S.day = 20; for (const bb of ZH.world.buildings) bb.burnt = true; S.z.length = 0; allDown(0); for (const q of S.sv) q.bleed = null; run(100); out.noCamp = !!(S.help && S.help.coming); run(500); out.noCampModes = [...new Set(S.sv.map((q) => q.mode))];
+    S.day = 20; for (const bb of ZH.world.buildings) bb.burnt = true; S.z.length = 0; allDown(0); for (const q of S.sv) q.bleed = null; run(100); out.noCamp = !!(S.help && S.help.coming); run(500); for (let k = 0; k < 70 && S.truck && S.truck.leg !== 'out'; k++) run(100); out.noCampModes = [...new Set(S.sv.map((q) => q.mode))];
     for (const q of S.sv) { if (q.mode === 'hospital') q.stateTicks = Math.min(q.stateTicks || 0, 200); } run(2500, 12); out.afterModes = [...new Set(S.sv.map((q) => q.mode))]; out.alive2 = S.sv.length;
     out.fallen = (S.fallen || []).length; return out; });
   console.log(JSON.stringify(r)); const bad = [];

diff --git a/tools/qa/truck_save_check.js b/tools/qa/truck_save_check.js
@@ -1,0 +1,17 @@
+// tools/qa/truck_save_check.js — 3D.303: save and reload while a Greenwater medic is carrying someone (the medic and the person point at
+// each other, which once made the save fail). The save must work, the medic must pick the same person up again, and everyone must end in care.
+// Serve the repo first (python3 -m http.server 8765) or set ZH_NOSERVER=1. Exit 0 ok, 1 a check failed.
+const Q = require('./lib');
+(async () => { const b = await Q.launch(); const p = await Q.page(b, { expose: 'serialize, applySave, truckAt' }); await Q.newGame(p); await Q.clearCards(p);
+  const r = await p.evaluate(() => { let S = ZH.S; const camp = ZH.world.buildings[0]; ZH.ARRIVE.low = ZH.ARRIVE.high = 1e9; S.z.length = 0;
+    S.sv.forEach((q, i) => { q.hp = 0; q.mode = 'down'; q.w = { x: camp.x + 5 + i, y: camp.y + 5 }; }); S.help = { coming: ZH.tick + 1 };
+    for (let k = 0; k < 400; k++) { S.hour = 12; ZH.step(10); document.querySelectorAll('#eventModal button').forEach((x) => x.click()); const T = S.truck; if (T && T.medics && T.medics.some((m) => m.mode === 'rescueCarry')) break; }
+    const data = ZH.serialize(); let err = null; try { ZH.applySave(data); } catch (e) { err = String(e); }
+    S = ZH.S; const out = { err, truck: !!S.truck, leg: S.truck && S.truck.leg, medics: S.truck && S.truck.medics && S.truck.medics.map((m) => m.mode + ':' + m.carryId) };
+    for (let k = 0; k < 800 && S.truck && S.truck.leg === 'stop'; k++) { S.hour = 12; ZH.step(10); document.querySelectorAll('#eventModal button').forEach((x) => x.click()); }
+    out.after = S.truck ? S.truck.leg : 'gone'; out.modes = S.sv.map((q) => q.mode); return out; });
+  console.log(JSON.stringify(r)); const bad = [];
+  if (r.err) bad.push('loading failed: ' + r.err); if (!r.truck || r.leg !== 'stop') bad.push('the truck was not parked after loading');
+  if (!(r.medics || []).some((m) => /^rescueCarry:\d/.test(m))) bad.push('no medic was still carrying someone after loading: ' + JSON.stringify(r.medics));
+  if (r.after === 'stop') bad.push('the truck never left after loading'); if (r.modes.includes('down')) bad.push('someone was left lying down: ' + r.modes.join(','));
+  console.log(bad.length ? 'FAIL: ' + bad.join('; ') : 'ok: a save made mid-carry loads, the medic carries on, and everyone ends in care'); if (p.errs.length) console.log('page errors:', p.errs.slice(0, 3)); await b.close(); process.exit(bad.length ? 1 : 0); })();

diff --git a/src/game/15-save.js b/src/game/15-save.js
@@ -4,7 +4,7 @@ function serialize() {
   S.mapOff = OFF;   /* 3D.101: this save uses the 40x42 map */
   const sv = S.sv.map((s) => { const o = {}; for (const k in s) if (!SKIP.has(k)) o[k] = s[k]; return o; });
   if (S.sh) shMemSave(S.sh);   /* 3D.302 a game saved with a squad inside keeps what they have done there */
-  const { requests, sv: _sv, z: _z, sh: _sh, ...rest } = S; if (_sh && !_sh.practice) { rest.shHome = _sh.units.filter((s) => !s.ally).map((s) => { const o = {}; for (const k in s) if (!SKIP.has(k) && k !== 'target' && k !== 'shHome') o[k] = s[k]; return o; }); rest.shLeft = { dest: _sh.dest, raid: _sh.raid || null }; }   /* 3D.125: a practice squad is never saved into the town */   /* 3D.108 a squad inside a stronghold is saved as having fallen back */
+  const { requests, sv: _sv, z: _z, sh: _sh, ...rest } = S; if (rest.truck && rest.truck.medics) rest.truck = { ...rest.truck, medics: rest.truck.medics.map(({ carrying, target, path, pathGoal, pathVer, arrG, ...m }) => m) };   /* 3D.303: a medic is saved without its links to people (it finds its patient again by carryId) */ if (_sh && !_sh.practice) { rest.shHome = _sh.units.filter((s) => !s.ally).map((s) => { const o = {}; for (const k in s) if (!SKIP.has(k) && k !== 'target' && k !== 'shHome') o[k] = s[k]; return o; }); rest.shLeft = { dest: _sh.dest, raid: _sh.raid || null }; }   /* 3D.125: a practice squad is never saved into the town */   /* 3D.108 a squad inside a stronghold is saved as having fallen back */
   return JSON.stringify({ sid: SID, version: VERSION, S: rest, sv, roads: [...world.roads], walls: [...world.walls.values()].map((w) => [w.x, w.y, w.type, Math.round(w.hp), w.broken ? 1 : 0]), traps: [...trapMap().values()].map((t) => [t.x, t.y, t.type, t.ch]), buildings: world.buildings.map((b) => ({ type: b.type, x: b.x, y: b.y, rot: (b.rot | 0) & 3, w: b.w, h: b.h, q: b.q, a: b.a, unpaid: !!b.unpaid, fire: b.fire || 0, burnt: !!b.burnt, rushT: b.rushT || 0, rushes: b.rushes || 0, staffId: b.staff ? b.staff.id : null })), cam: { x: cam.x, y: cam.y, z: cam.z }, time: Date.now() });
 }
 function writeKey(key, data) { try { localStorage.setItem(key, data); return true; } catch (e) { return e || new Error('blocked'); } }

diff --git a/js/render3d.js b/js/render3d.js
@@ -1569,6 +1569,12 @@ function syncPeople(dt, vis) {
   const T = G.S.trader;   // V3D.17 the wandering trader: a survivor-style figure in purple with a straw hat and a pack
   if (T && T.w) { seen.add(T); let a = people.get(T); if (!a) { a = new Actor(MALE, jobMaterial('Trader', 'happy', { sk: 2, hr: 3 }), false, (e) => jobMaterial('Trader', e, { sk: 2, hr: 3 })); addHat(a, 'Farmer', true); a.setWeapon(null); a.setArmor(false); people.set(T, a); }
     a.show(true); a.place(T.w.x, T.w.y, null, dt); a.play(T.moving ? (a.acts.jog && a.spd > (a.name === 'jog' ? JOG_OFF : JOG_ON) * (G.simSpeed ? G.simSpeed() : 1) ? 'jog' : 'walk') : 'idle'); tickMixer(a, dt, vis); }
+  for (const m of (G.S.truck && G.S.truck.medics) || []) {   /* 3D.303 Greenwater's medics: a Medic figure in Greenwater green, pushing a stretcher cart when carrying someone */
+    if (m.mode === 'in' || !m.w) continue; seen.add(m); let a = people.get(m);
+    if (!a) { a = newPerson({ job: 'Medic', id: m.id, name: m.name }); addHat(a, 'Medic'); a.setWeapon(null); a.setArmor(false); people.set(m, a); }
+    a.show(true); a.place(m.w.x, m.w.y, null, dt); a.play(m.moving ? (m.mode === 'rescueCarry' && a.acts.rescue ? 'rescue' : 'jog') : m.mode === 'go' && a.acts.pick_up ? 'pick_up' : 'idle'); tickMixer(a, dt, vis);
+    const pushing = m.mode === 'rescueCarry'; if (pushing && !a.cart) a.cart = makeCart();
+    if (a.cart) { a.cart.visible = pushing; if (pushing) { a.cart.position.set(a.o.position.x + Math.sin(a.yaw) * .95, 0, a.o.position.z + Math.cos(a.yaw) * .95); a.cart.rotation.y = a.yaw; } } }
   for (const [s, a] of people) if (!seen.has(s)) { if (a.cart) { scene.remove(a.cart); a.cart = null; } a.dispose(); people.delete(s); }
 }
 /* 3D.183 Zombie test page: a zombie with z.show = { act: 'stand' | 'walk' | 'run' | 'attack', turn, yaw } plays that on the spot. The simulation still

diff --git a/tools/balance/KNOBS.md b/tools/balance/KNOBS.md
@@ -22,7 +22,7 @@ Change one at a time, with a check before and after (`tools/balance/check.sh`). 
 | When the boss walks in | `10-enemies-walls.js`, `BOSS_LAST` | on the level's boss night the horde comes at 21:00 and the boss when two thirds of it have arrived, or 2 game hours later at the latest (3D.269) | Big horde size; deaths |
 | How hard raiders hit | `10-enemies-walls.js`, `RAIDER_HIT` | 5 + 0.2 x the weapon's attack | Deaths |
 | Healing | `22-field-aid.js`: `MEND_PCT`, `TENT_PCT`, `TENT_STAYS`, `PATCH_CAP`, `FIELD_CAP`, `PATCH_CD`; `03-stats-gear.js` `facilityRules` (medic, clinic, hospital `benefit`) | since 3D.284 to 3D.287 (W130): with no zombie in town everyone mends 2% an hour; under 80% people walk to a medical building with room and stay until full (up to 12 rounds); with a zombie in town only those under 60% set out; a Medic's round patches to 75% (a field wound to 60%) for 1 cloth or 0.1 medicine, once every 3.6 game hours a person, only for those who cannot go | Nights with nobody down; deaths; cloth and medicine as the short stock |
-| The rescue truck | `03-stats-gear.js`, `TRUCK` in `truckTick()` | since 3D.288 (W129): drives in at 0.05 tiles a tick, parks 240 ticks, leads out at 0.022 tiles a tick and waits for the nearest follower beyond 3.5 tiles; every zombie in and near town follows it off the map | Town lost; deaths in one night; zombies standing after a lost night |
+| The rescue truck | `03-stats-gear.js`, `TRUCK` in `truckTick()` | since 3D.288, medics 3D.303 (W129): drives in at 0.05 tiles a tick, parks at least 240 ticks and until its two medics (`MEDIC`, 0.045 tiles a tick) have carried everyone in (at most 6,000), leads out at 0.022 tiles a tick and waits for the nearest follower beyond 3.5 tiles; every zombie in and near town follows it off the map | Town lost; deaths in one night; zombies standing after a lost night |
 | Weekly crisis | `17-endgame-trophies-crises.js`, `CRISIS_LVL`, `CRISIS_EVERY`, `CRISES`, `TIDE_CAP` | from level 15, every 7 game days, never with its fight on a boss night or the night before (3D.273); The Tide's waves walk in while fewer than 60 stand and grow with the level (3D.274) | Most standing; deaths at the top |
 | Season length | `11-town.js`, `SEASON_DAYS` | 7 game days | The cure and seasonal strongholds (section 7) |
 | Research | `11-town.js`, `RESEARCH` | 8 projects, 245 points | Research points unspent |
